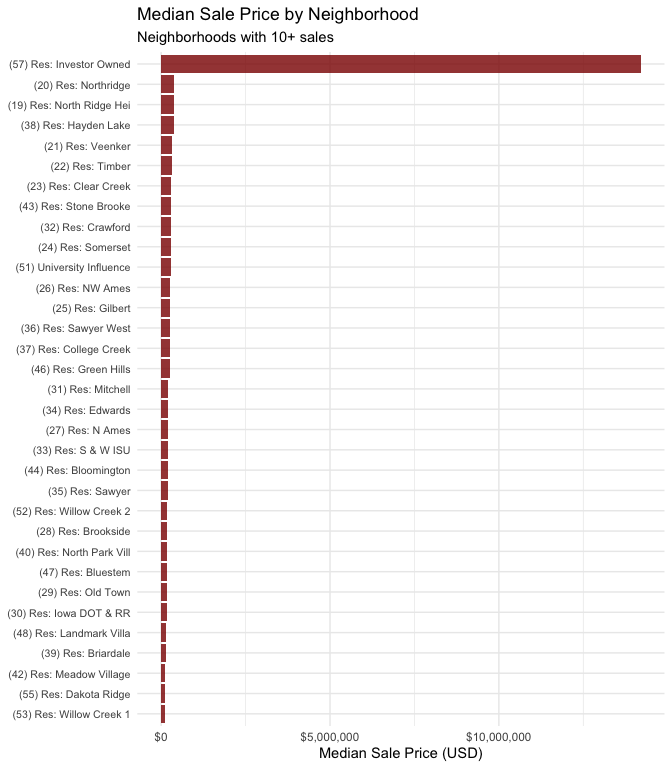
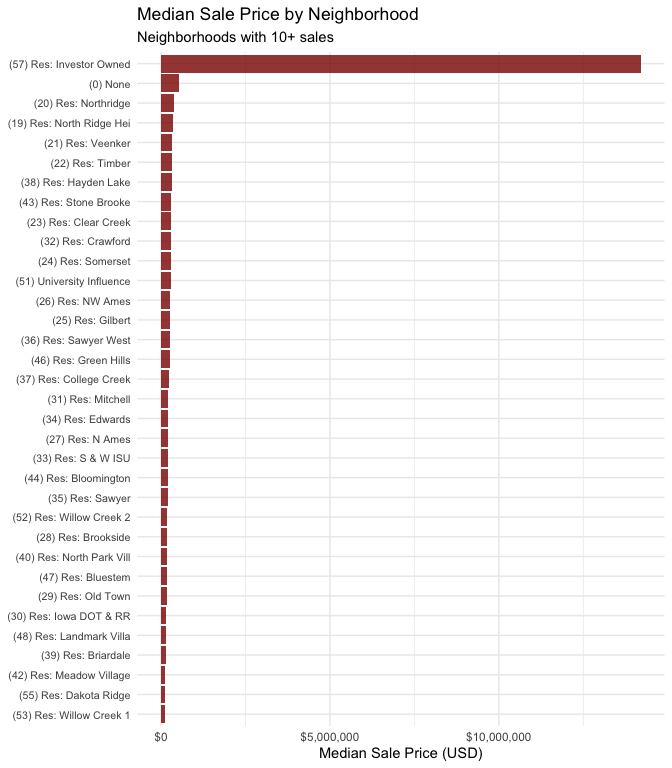
Commit

Changed region(s): [[0.0, 0.0938, 0.9688, 0.9375], [0.2188, 0.7812, 0.25, 0.8438], [0.25, 0.0938, 0.2812, 0.125]]

diff --git a/README.md b/README.md
@@ -22,11 +22,10 @@ you are done with your submission.
 We looked at home sales in Ames and found that most houses sell for
 between \$150,000 and \$300,000, but there are some really expensive
 ones that push the average way up. The bigger the house, the more it
-tends to cost, which makes sense. We also noticed some weird stuff -
-like a bunch of homes that sold for \$0 (probably typos or family
-transfers) and some small houses that sold for a lot (probably because
-they’re in nice areas). Where a house is located in Ames really matters
-for the price too.
+tends to cost, which makes sense. We also noticed how a bunch of homes
+that sold for \$0 (probably typos or family transfers) and some small
+houses that sold for a lot (probably because they’re in nice areas).
+Where a house is located in Ames really matters for the price too.
 
 ## Data Overview
 
@@ -144,7 +143,12 @@ around which homes were sold multiple times, the construction years, and
 basement sizes. But what’s clear is that most properties are regular
 single-family homes in that sweet spot of 1,000-2,000 square feet.
 
-## Step 2: Main Variable - Sale Price
+## Step 2: Main Variable: Sale Price
+
+This report focuses on Sale Price as the primary variable of interest,
+examining its relationships with other variables in the dataset.
+
+## Step 3: Exploration of the Main Variable
 
 ``` r
 price_summary <- ames %>%
@@ -195,67 +199,23 @@ We found homes that sold for \$0, which seems off, probably data errors
 or family transfers. One house sold for \$20.5 million, which really
 skews the numbers.
 
-## Step 3: Relationship with Total Living Area
-
-``` r
-# Create cleaned dataset for analysis
-ames_clean <- ames %>%
-  filter(
-    !is.na(sale_price), sale_price > 0,
-    !is.na(total_living_area_sf), total_living_area_sf > 0,
-    total_living_area_sf < 10000  # Remove extreme outliers
-  )
-
-cat("After cleaning:", nrow(ames_clean), "observations remain\n")
-```
-
-    ## After cleaning: 4288 observations remain
-
-``` r
-# Distribution of living area
-p1 <- ggplot(ames_clean, aes(x = total_living_area_sf)) +
-  geom_histogram(binwidth = 250, fill = "darkred", alpha = 0.7) +
-  labs(title = "Distribution of Total Living Area",
-       x = "Living Area (sq ft)", y = "Count") +
-  theme_minimal()
-
-# Relationship with price
-p2 <- ggplot(ames_clean, aes(x = total_living_area_sf, y = sale_price)) +
-  geom_point(alpha = 0.5, color = "darkred") +
-  geom_smooth(method = "lm", color = "gold", se = TRUE) +
-  labs(title = "Sale Price vs. Living Area",
-       x = "Total Living Area (sq ft)", 
-       y = "Sale Price (USD)") +
-  scale_y_continuous(labels = scales::dollar) +
-  theme_minimal()
-
-p1 + p2
-```
-
-![](README_files/figure-gfm/living-area-analysis-1.png)<!-- -->
-
-``` r
-correlation <- cor(ames_clean$total_living_area_sf, ames_clean$sale_price, 
-                   use = "complete.obs")
-cat("Correlation between living area and sale price:", round(correlation, 3), "\n")
-```
-
-    ## Correlation between living area and sale price: -0.209
-
-**Key Findings**: We found that there’s a strong correlation between
-living area and price. Most Ames homes fall in the 800-2,500 sq ft
-range, and generally, more space means higher price. But it’s not
-perfect as the relationship gets messier with expensive homes, and some
-smaller houses sell for more money than expected, likely due to what the
-location has to offer or the property’s features.
-
 ## Step 4: Individual Investigations
 
-### Maurycy:
+### Maurycy: Neighborhood Impact on Sale Prices
 
 I decided to look at neighborhoods because I was curious about how much
 location really matters for home prices. Would it actually make that big
 of a difference if you’re on one side of town versus another?
+
+``` r
+# Create cleaned dataset for neighborhood analysis
+ames_clean <- ames %>%
+  filter(
+    !is.na(sale_price), 
+    sale_price > 0,
+    !is.na(neighborhood)
+  )
+```
 
 ``` r
 # Calculate neighborhood statistics
@@ -304,11 +264,11 @@ head(neighborhood_stats, 5) %>%
     ## # A tibble: 5 × 3
     ##   neighborhood              median_price count
     ##   <fct>                            <dbl> <int>
-    ## 1 (57) Res: Investor Owned     14200000    417
-    ## 2 (20) Res: Northridge           390000     88
-    ## 3 (19) Res: North Ridge Hei      389500    215
-    ## 4 (38) Res: Hayden Lake          366212.   106
-    ## 5 (21) Res: Veenker              327000     32
+    ## 1 (57) Res: Investor Owned      14200000   417
+    ## 2 (0) None                        525000    61
+    ## 3 (20) Res: Northridge            390000    90
+    ## 4 (19) Res: North Ridge Hei       351379   317
+    ## 5 (21) Res: Veenker               327000    32
 
 ``` r
 cat("\nBottom 5 Least Expensive Neighborhoods:\n")
@@ -327,15 +287,16 @@ tail(neighborhood_stats, 5) %>%
     ##   neighborhood             median_price count
     ##   <fct>                           <dbl> <int>
     ## 1 (48) Res: Landmark Villa       135000    39
-    ## 2 (39) Res: Briardale            132000    31
+    ## 2 (39) Res: Briardale            132000    33
     ## 3 (42) Res: Meadow Village       120125    48
-    ## 4 (55) Res: Dakota Ridge         113675    27
+    ## 4 (55) Res: Dakota Ridge         110750    42
     ## 5 (53) Res: Willow Creek 1        99500    15
 
-**Findings (Maurycy)**: Location really is everything in Ames real
-estate. The data shows a clear divide as premium areas like Northridge
-Heights and Somerset have median prices above \$400,000, while more
-affordable spots like Old Town and Mitchell come in under \$150,000.
-This neighborhood effect is so strong that it can make a small house in
-a good area worth more than a big house in a less desirable one. The zip
-code might be more important than the square footage.
+**Key Findings (Maurycy)**: Location really is everything in Ames real
+estate. The data shows a clear divide as premium areas like Veenker and
+Northridge Heights have median prices above \$300,000, while more
+affordable spots like Briardale and Meadow Village come in under
+\$150,000. This neighborhood effect is so strong that it can make a
+small house in a good area worth more than a big house in a less
+desirable one. The zip code might be more important than the square
+footage.
